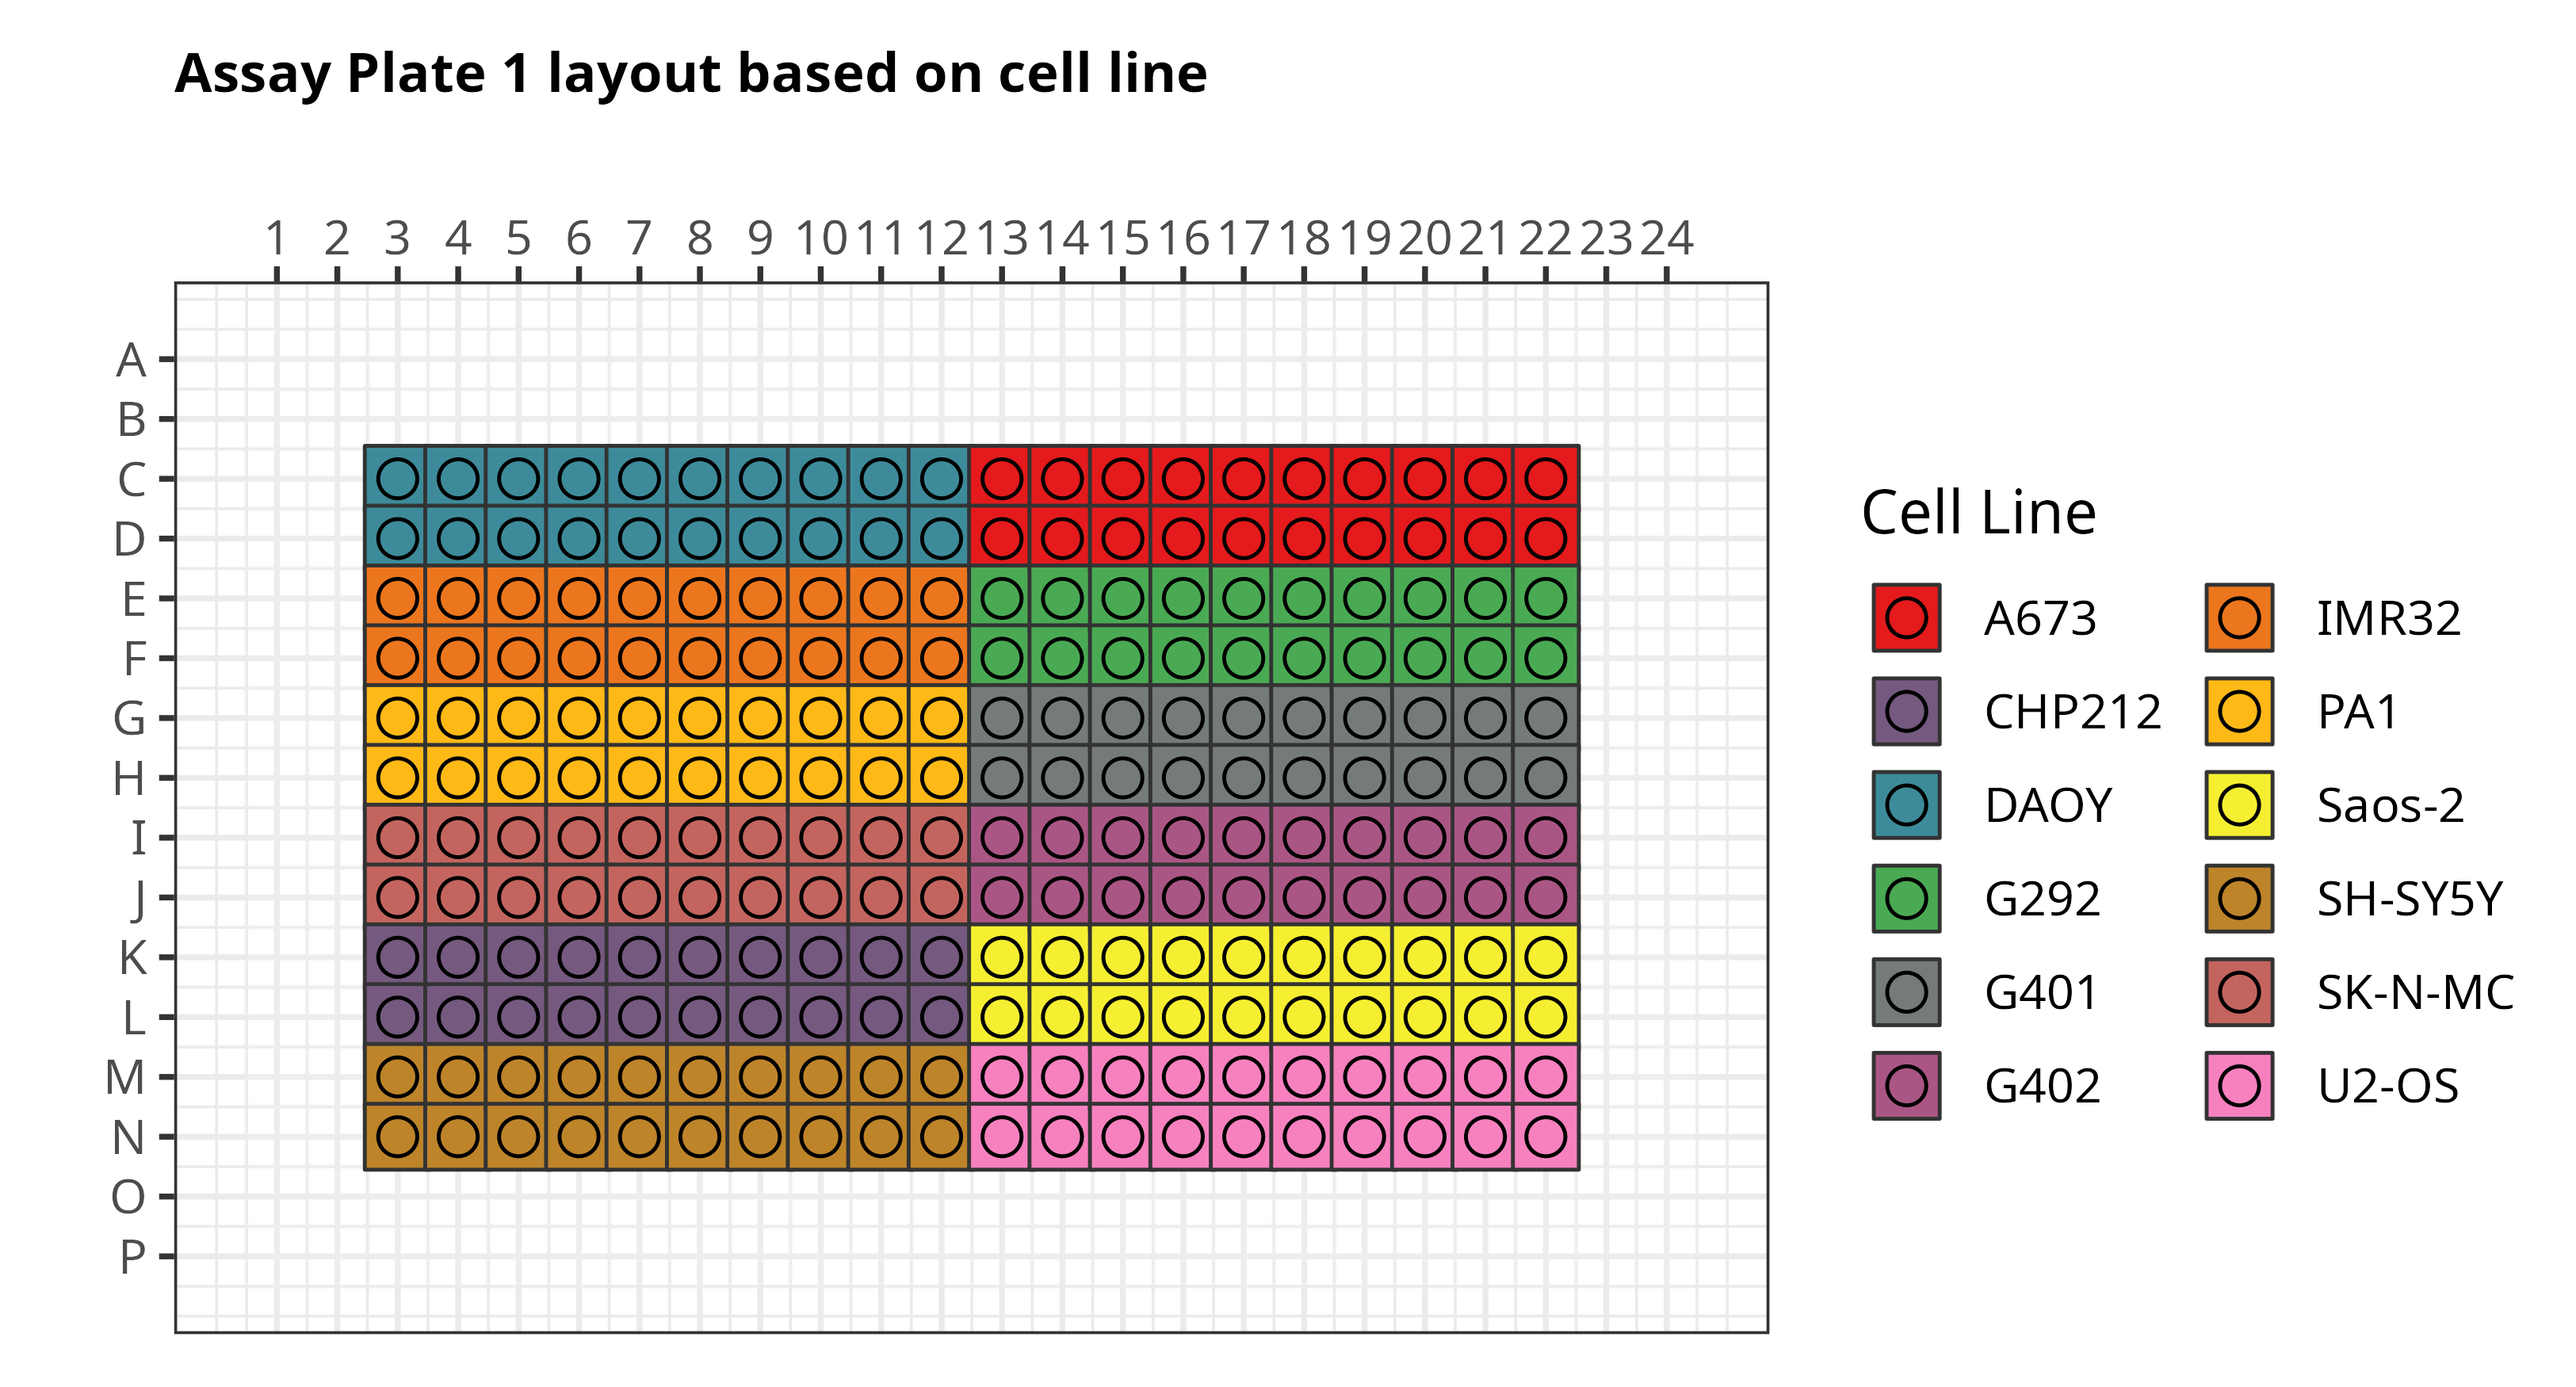
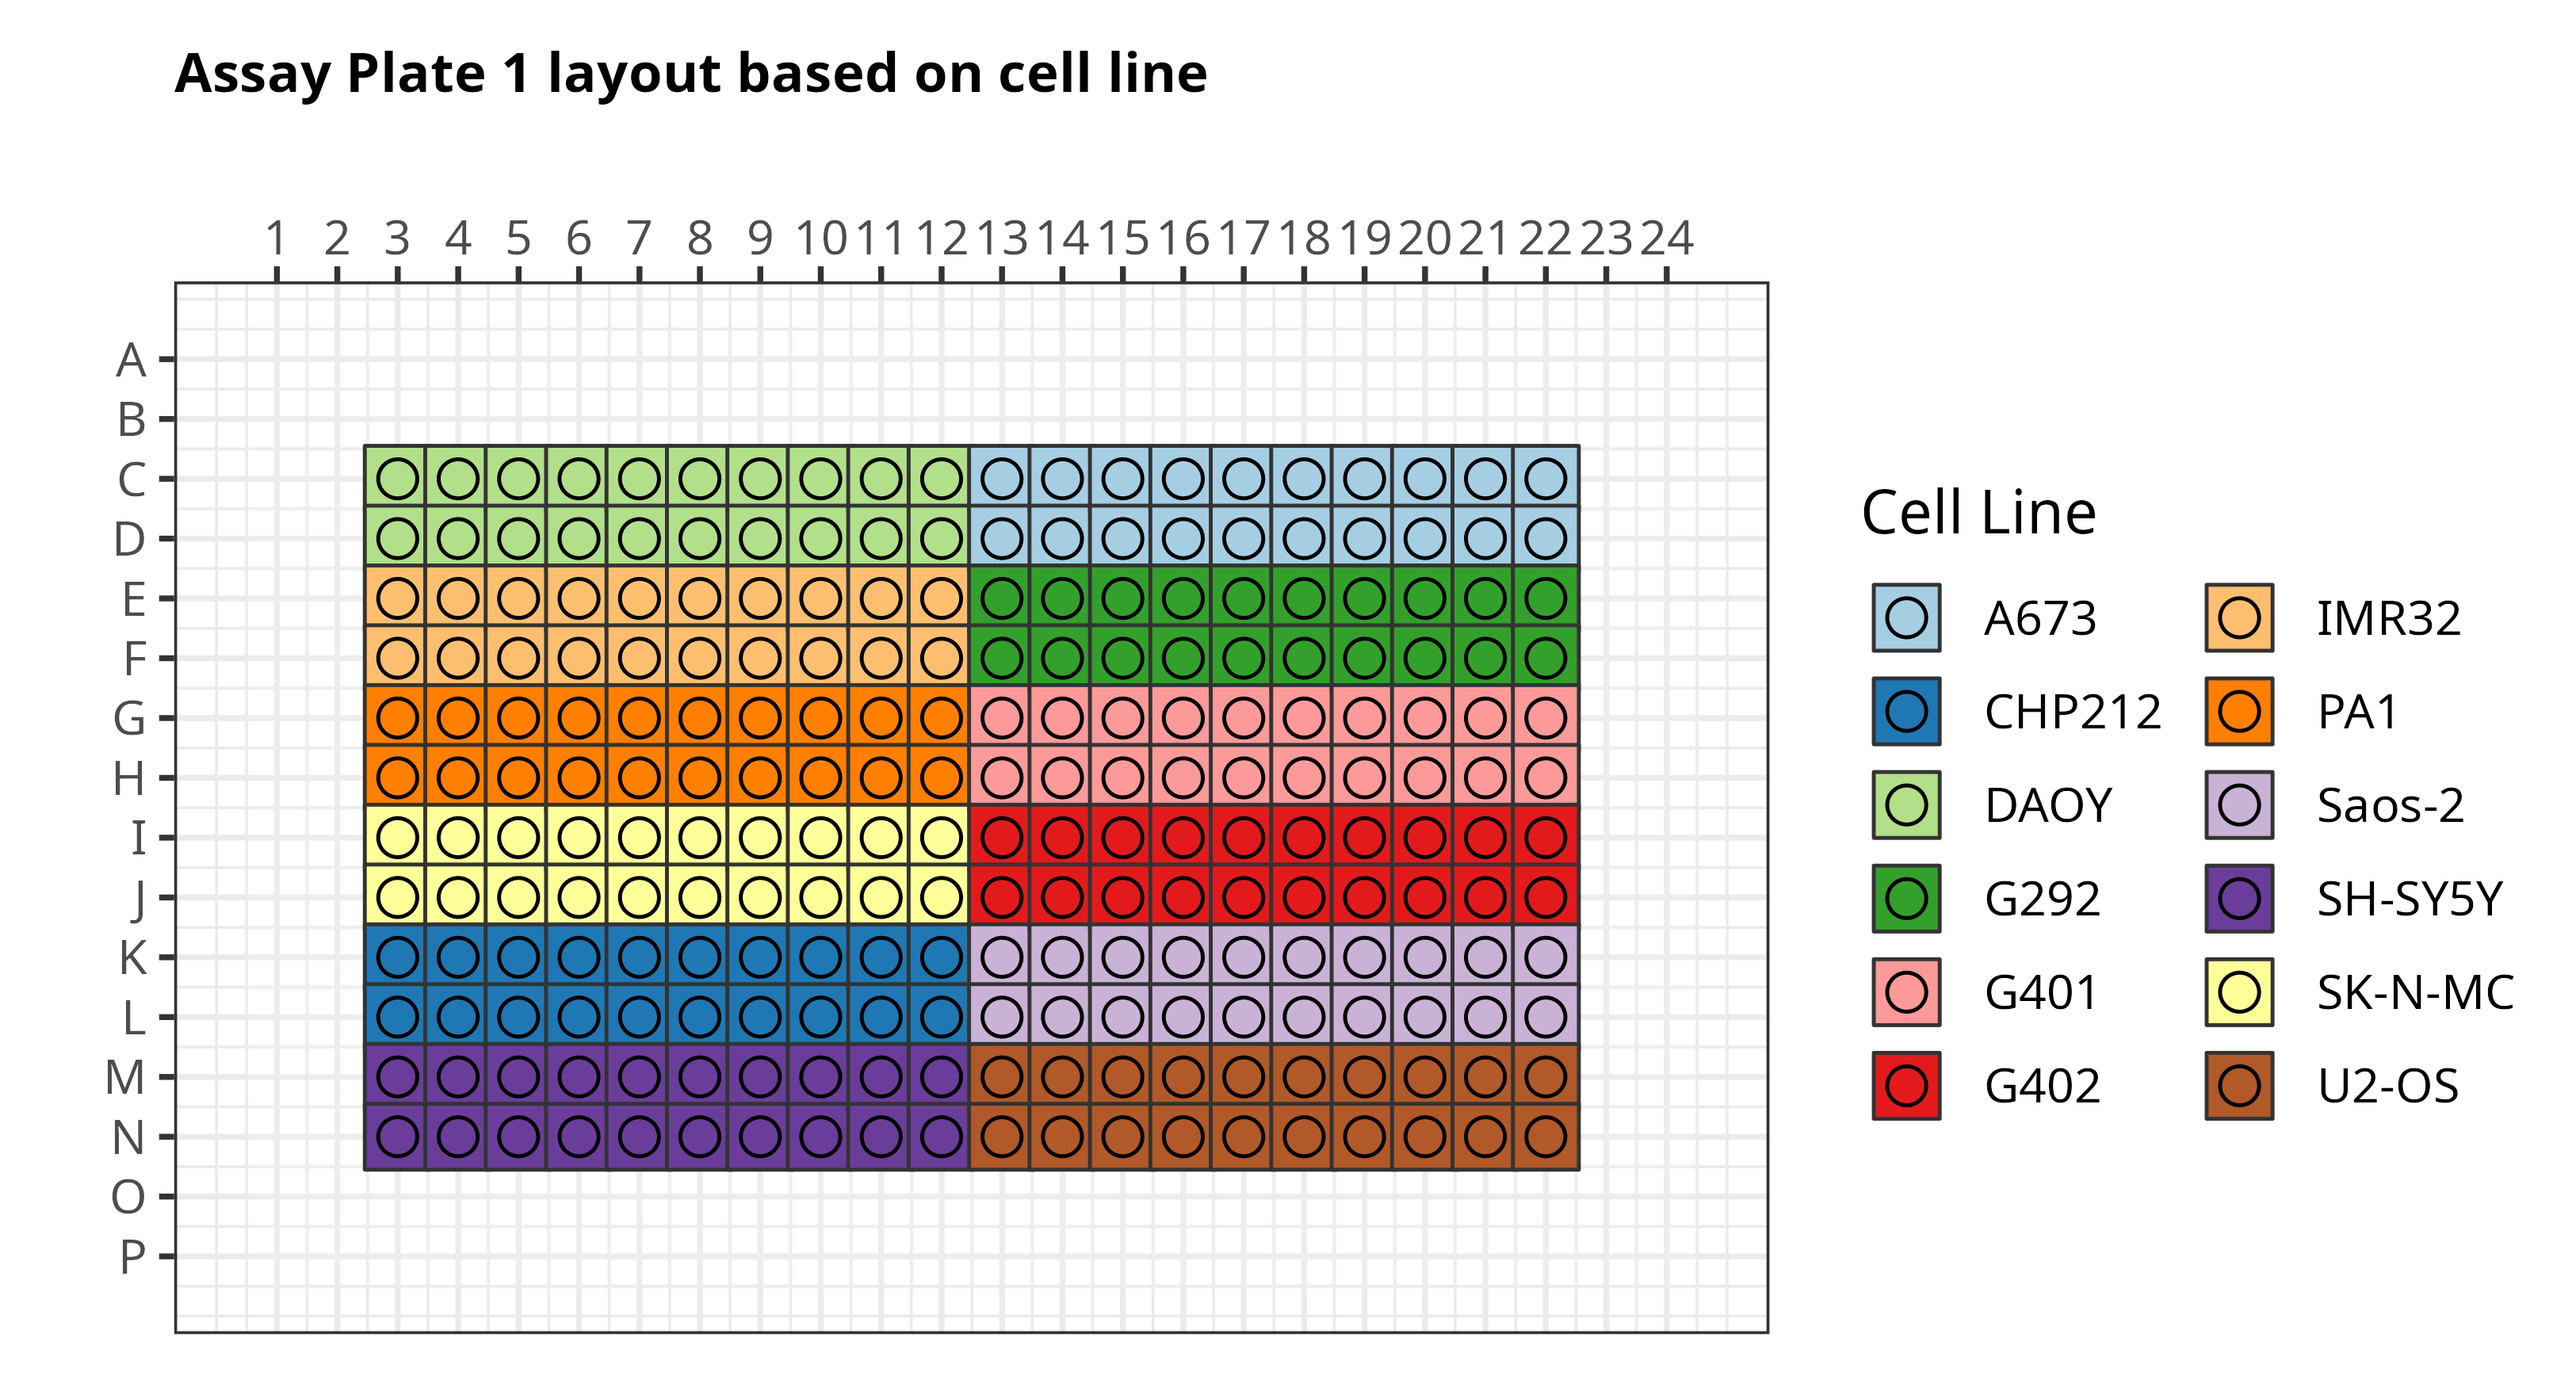
Update platemap and README (#27)
* update platemap and README

* update README per PR review

Changed region(s): [[0.1243, 0.3086, 0.6215, 0.864], [0.8391, 0.4011, 0.9012, 0.8023], [0.7148, 0.4011, 0.7769, 0.8023]]

diff --git a/README.md b/README.md
@@ -25,24 +25,25 @@ These channels are listed in the number order that you can find for the TIFF ima
 
 ### Pilot dataset
 
-To assess the optimal seeding density and time point across all cell lines, we acquired six plates of preliminary data with 18 unique cell lines.
-There are two platemap layouts, with each layout having three time points (24, 48, and 72 hours) per plate (e.g., 2 layouts * 3 time points = 6 plates).
-Per plate, there are five different seeding densities across the wells (1000, 2000, 4000, 8000, 12000).
+To assess the optimal seeding density, time point, and plating conditions across all cell lines, we acquired multiple rounds of preliminary data.
+Each round has two or three platemap layouts.
+There are three plates per layout, each at different time points (24, 48, and 72 hours).
+Per plate, there are five different seeding densities for each cell line with two replicate wells per density (1000, 2000, 4000, 8000, 12000).
+Each plate layout includes specific plate conditions, such as:
+
+1. Standard
+2. Synthemax coated
+3. Synthemax coated and double PFA fixation
+4. Laminin coated
+
+Platemap files and visualizations can be found in the [metadata folder](./0.download_data/metadata/) inside the download data module.
+
 **We will use various methods to determine what are the best conditions per cell line.**
 One method we will perform in this repository is single-cell quality control (QC), in which we will output a QC report that can tell us which seeding densities and time points yielded the worst quality segmentations.
 This can be due to high confluence or poor staining.
+Another method is pairwise Pearson's correlation, which computes how similar wells are within the same cell line.
 
-Below are the examples of the plate map layouts based on seeding density:
-
-![Assay Plate 1 layout](./0.download_data/metadata/platemap_figures/Assay_Plate1_platemap_figure_seeding_density.png)
-
-> First plate layout labelled by seeding density per well.
-
-![Assay Plate 2 layout](./0.download_data/metadata/platemap_figures/Assay_Plate2_platemap_figure_seeding_density.png)
-
-> Second plate layout labelled by seeding density per well. There are less wells used on this plate.
-
-**NOTE:** Both plate layouts contain U2-OS cell line in the same place. Also, any empty portions of the layout only contain media and no cells so they are not included on figure.
+**NOTE:** All plate layouts contain the U2-OS cell line, which is used as an "anchor" to compare profiles across plates and for developing segmentation parameters. Also, any empty portions of the layout contain media and no cells so they are not included on figure or in the platemap files.
 
 ## Repository structure
 
